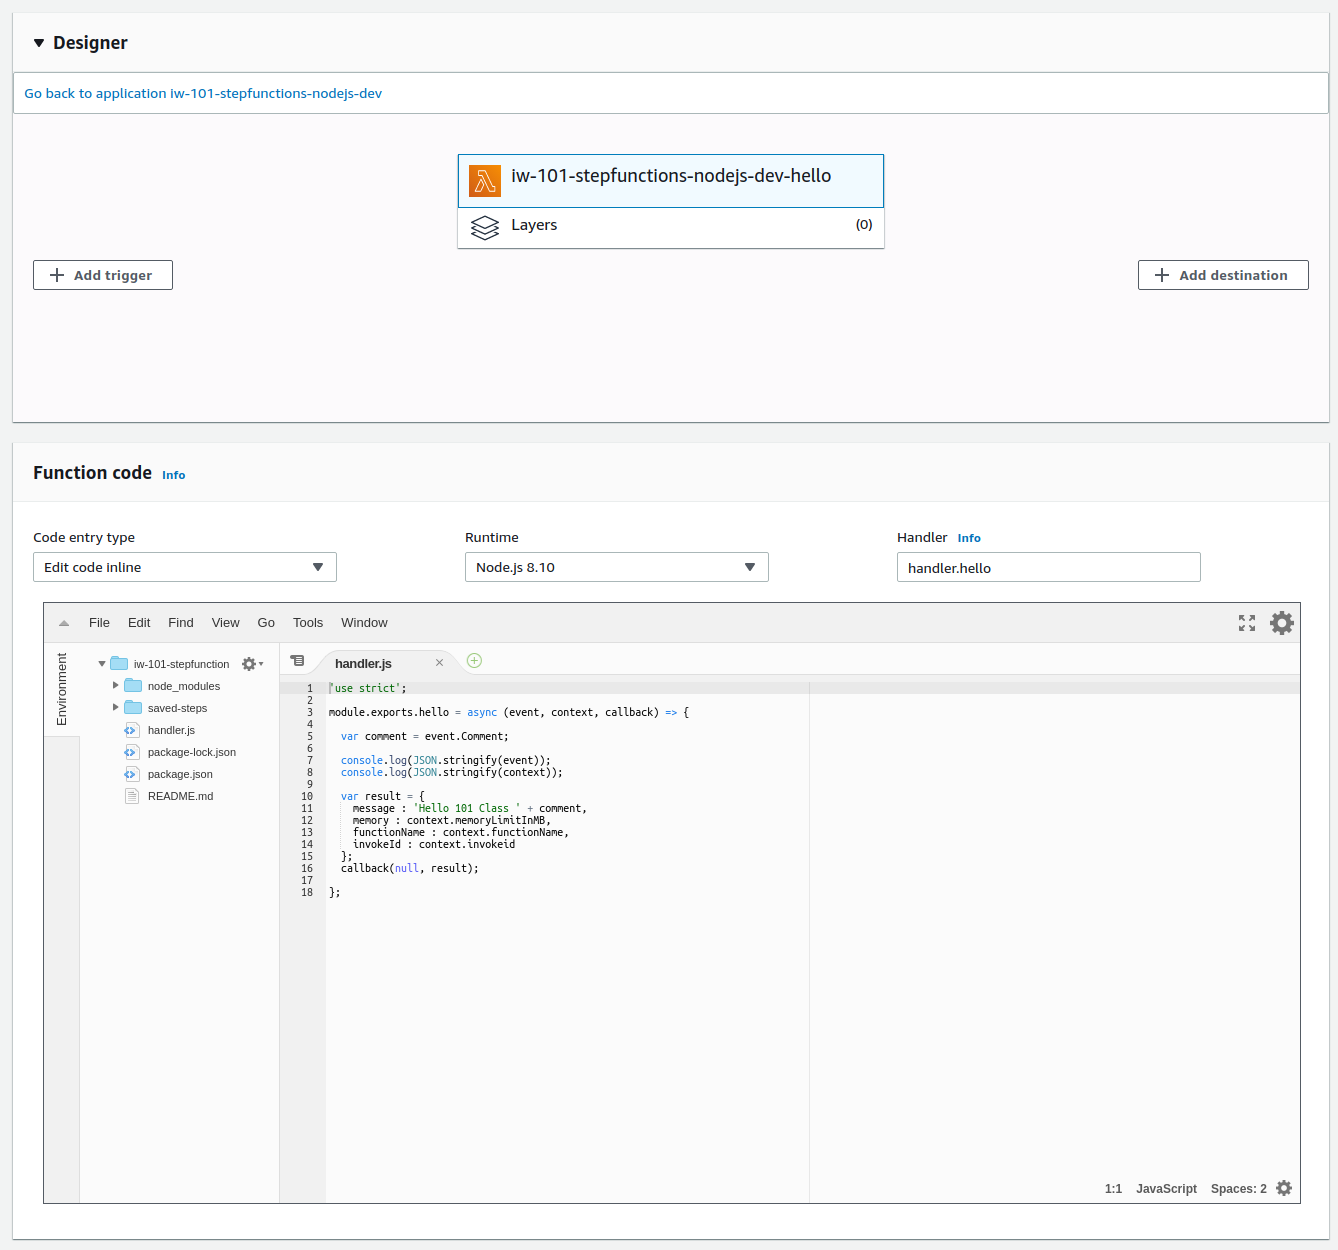
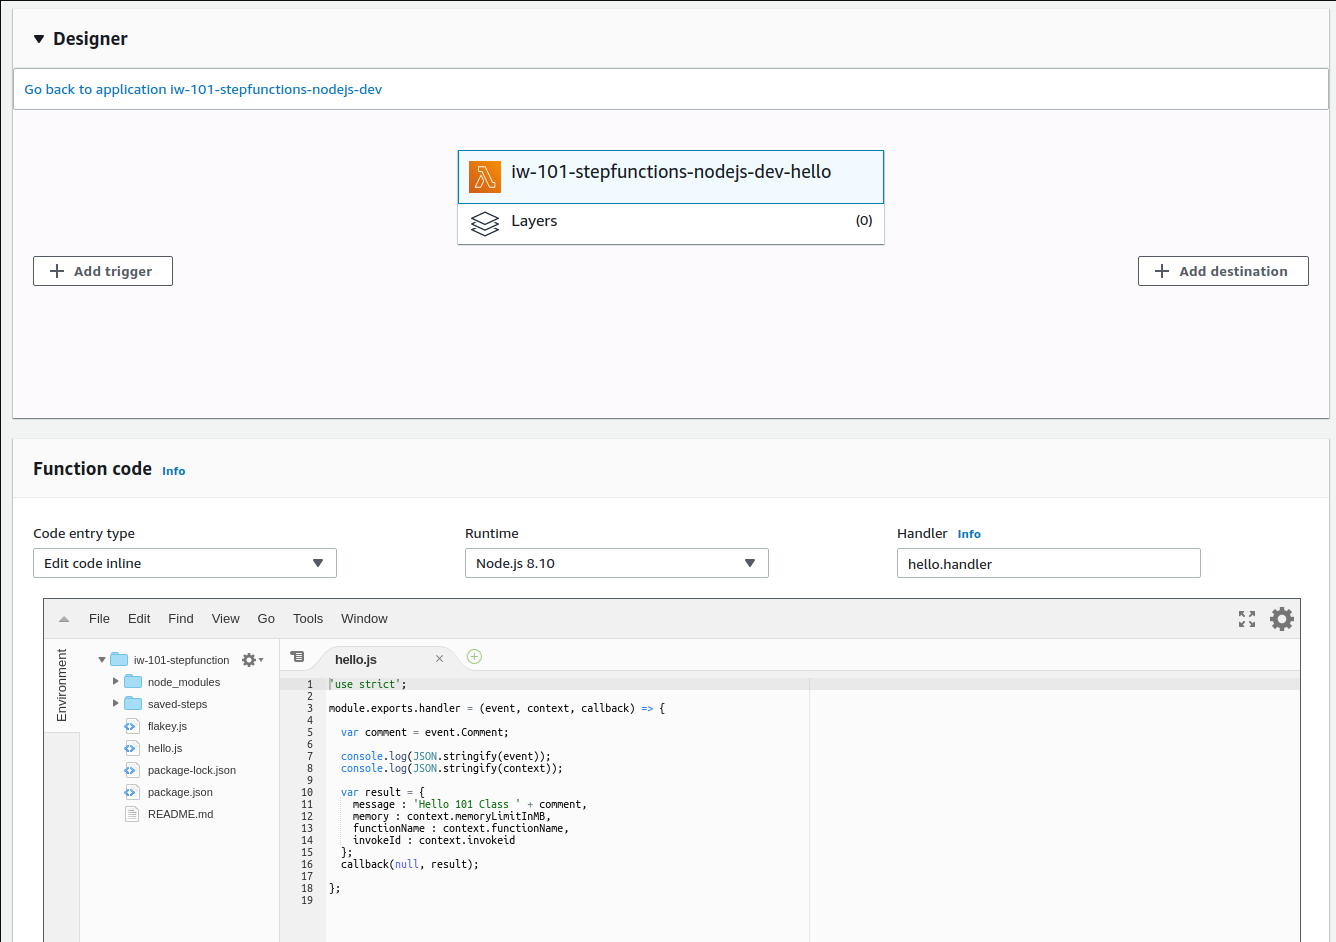
Flakey done

diff --git a/sessions/StepFunction-nodejs-100/101/flakey.js b/sessions/StepFunction-nodejs-100/101/flakey.js
@@ -1,0 +1,25 @@
+'use strict';
+
+module.exports.handler = (event, context, callback) => {
+
+  function CustomError(message) {
+    this.name = 'CustomError';
+    this.message = message;
+  }
+  CustomError.prototype = new Error();
+
+  var min = 1;
+  var max = 100;    
+  var randomNumber = Math.floor(Math.random() * (max - min + 1)) + min;
+
+  console.log("generatedRandom : " + randomNumber);
+
+  if (randomNumber < 51) {
+    callback(new CustomError('bad stuff happened...'));
+  }
+  if (randomNumber < 91) {
+    callback(new Error('something went wrong'));
+  }
+  callback(null, "Super Happy Success");
+
+};

diff --git a/sessions/StepFunction-nodejs-100/101/hello.js b/sessions/StepFunction-nodejs-100/101/hello.js
@@ -1,6 +1,6 @@
 'use strict';
 
-module.exports.hello = async (event, context, callback) => {
+module.exports.handler = (event, context, callback) => {
 
   var comment = event.Comment;
 

diff --git a/sessions/StepFunction-nodejs-100/101/README.md b/sessions/StepFunction-nodejs-100/101/README.md
@@ -245,12 +245,12 @@ Great - lets run one, click the `execute button` and just leave the defaults and
 
 Ok, great now lets do something useful : lets store some information in state
 
-Lets modify the [./handler.js](./handler.js) file to make it work with step function events.
+Lets rename the handler.js to [./hello.js](./hello.js) file to make it work with step function events.
 
 ```javascript
 'use strict';
 
-module.exports.hello = async (event, context, callback) => {
+module.exports.handler = (event, context, callback) => {
 
   var comment = event.Comment;
 
@@ -328,43 +328,72 @@ Great it outputted
 }
 ```
 
+If we check the cloudwatch logs, then we can see the 2 `Console.log` items
+
+Event
+
+```json
+{
+    "Comment": "Insert your JSON here"
+}
+```
+
+Context
+
+```json
+{
+    "callbackWaitsForEmptyEventLoop": true,
+    "logGroupName": "/aws/lambda/iw-101-stepfunctions-nodejs-dev-hello",
+    "logStreamName": "2019/12/08/[$LATEST]8eda7350ce124b1a945cf3e909a31a00",
+    "functionName": "iw-101-stepfunctions-nodejs-dev-hello",
+    "memoryLimitInMB": "128",
+    "functionVersion": "$LATEST",
+    "invokeid": "f1f6ccc2-e58c-4603-b155-5420368d608e",
+    "awsRequestId": "f1f6ccc2-e58c-4603-b155-5420368d608e",
+    "invokedFunctionArn": "arn:aws:lambda:eu-west-1:REDACTED:function:iw-101-stepfunctions-nodejs-dev-hello"
+}
+```
+
 ## Next Step Function : 101FlakeyMachine
-
-**WIP**
-
-<https://aws.amazon.com/getting-started/tutorials/create-a-serverless-workflow-step-functions-lambda/>
 
 Now lets see how we can deal with errors - retry, backoff, and failures
 
 This `serverless.yml` is the next example [./saved-steps/serverless-04-101-flakey-machine.yml](./saved-steps/serverless-04-101-flakey-machine.yml) 
 
-It uses the [./hello/flakey.go](./hello/flakey.go) file.
+It uses the [./flakey.js](./flakey.js) file.
 
 In this file, the main function will generate random failures, see the custom error?
 
-```golang
-	rand.Seed(time.Now().UnixNano())
-	numb := rand.Intn(100)
+```javascript
+'use strict';
 
-	if numb < 51 {
-		return "", errors.New("something went wrong")
-	}
-	if numb < 91 {
-		return "", &CustomError{}
-	}
-	return fmt.Sprintf("Super Happy Success"), nil
+module.exports.handler = (event, context, callback) => {
+
+  function CustomError(message) {
+    this.name = 'CustomError';
+    this.message = message;
+  }
+  CustomError.prototype = new Error();
+
+  var min = 1;
+  var max = 100;    
+  var randomNumber = Math.floor(Math.random() * (max - min + 1)) + min;
+
+  console.log("generatedRandom : " + randomNumber);
+
+  if (randomNumber < 51) {
+    callback(new CustomError('bad stuff happened...'));
+  }
+  if (randomNumber < 91) {
+    callback(new Error('something went wrong'));
+  }
+  callback(null, "Super Happy Success");
+
+};
 ```
 
 The custom error lets you have different control in your step function, depending on what error occured
 
-```golang
-// CustomError smaple error
-type CustomError struct{}
-
-func (e *CustomError) Error() string {
-	return "bad stuff happened..."
-}
-```
 The errors can be trapped, and retry the lambda.
 Retries, can be instructed to back-off (leave longer gaps), if they continue to fail.
 
@@ -417,7 +446,35 @@ And one that succeeded
 
 ![alt Success](./saved-steps/img/04-flakey-success.png "Success")
 
-The Successful execution still needed a few retries
+The successful execution still needed a few retries and had errors
+
+```json
+{
+  "error": "CustomError",
+  "cause": {
+    "errorMessage": "bad stuff happened...",
+    "errorType": "CustomError",
+    "stackTrace": [
+      "module.exports.handler (/var/task/flakey.js:9:27)"
+    ]
+  }
+}
+```
+
+and
+
+```json
+{
+  "error": "Error",
+  "cause": {
+    "errorMessage": "something went wrong",
+    "errorType": "Error",
+    "stackTrace": [
+      "module.exports.handler (/var/task/flakey.js:21:14)"
+    ]
+  }
+}
+```
 
 ![alt Log](./saved-steps/img/04-flakey-log.png "Log")
 
